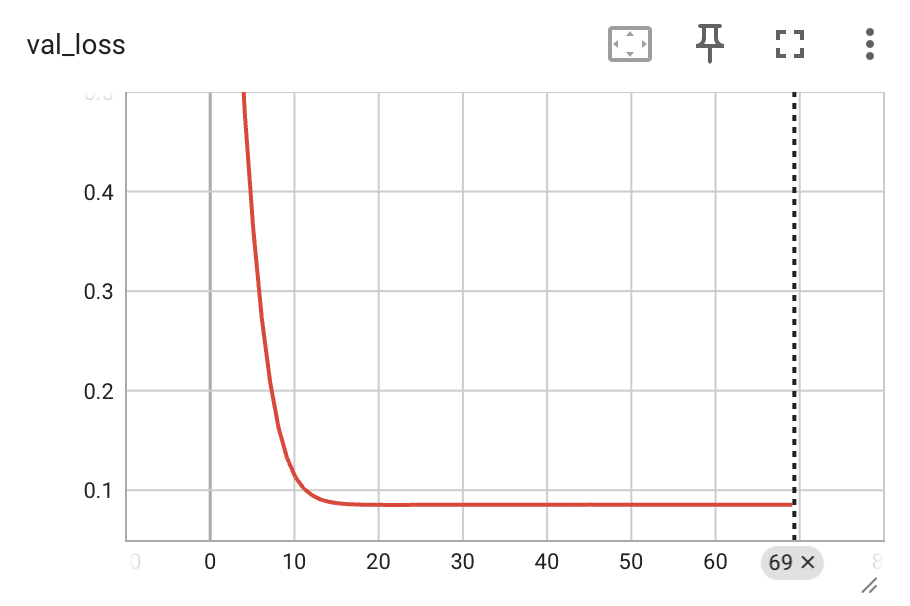
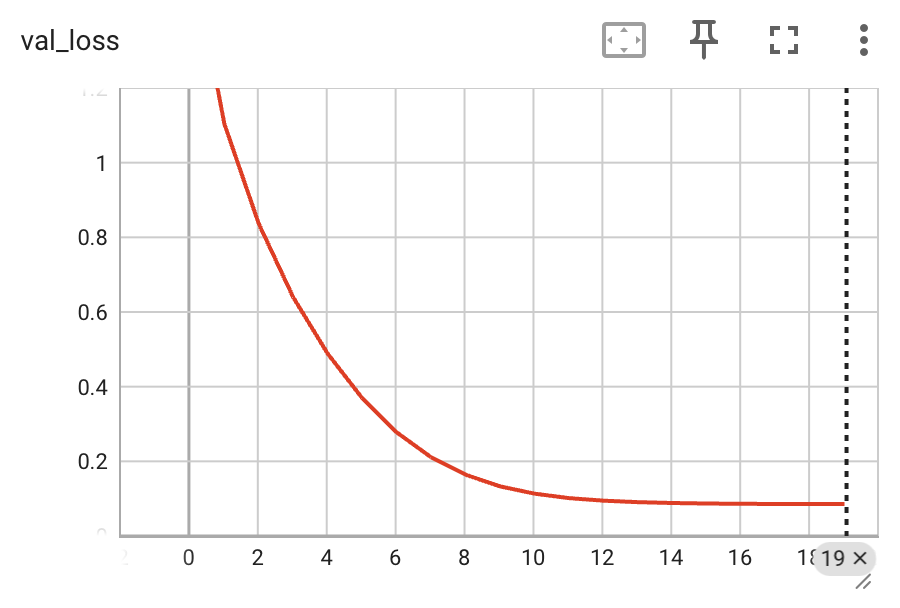
docs: updated README.md

diff --git a/src/app/services/train_service.py b/src/app/services/train_service.py
@@ -1,7 +1,9 @@
 from src.ml.config import Config
 from src.ml.train import train_pipeline
+import logging
 
 def train_model(Config, EMBEDDING_DIM, LEARNING_RATE, BATCH_SIZE, N_EPOCHS):
     if not Config.DATA_PATH.exists() or not Config.MAPPING_PATH.exists():
+        logging.error("Preprocessed file or mapping file not found")
         raise ValueError("You should preprocess your data first!")
     return train_pipeline(Config, EMBEDDING_DIM, LEARNING_RATE, BATCH_SIZE, N_EPOCHS)

diff --git a/README.md b/README.md
@@ -20,7 +20,7 @@ formulated as a regression task over explicit feedback.
 
 ## ML Approach
 - Matrix factorization with user and item embeddings (with bias terms)
-- Batch training via DataLoader (over **user-item-rating** triplets).
+- Batch training via DataLoader (over **user-item-rating** triplets)
 - Train/validation split
 - Saving model to the file + JSON metadata storage
 - Optimization via MSE loss
@@ -33,14 +33,15 @@ formulated as a regression task over explicit feedback.
 - Model outputs scores (not probabilities).
 - Inference currently uses Pandas DataFrame, which might limit performance.
 - The model uses classical matrix factorization. Currently, there are more modern recommendation models in the world (based on implicit feedback).
+- Training performance is sensitive to batch size: reducing the batch size may increase epoch duration. This is likely caused by a data loading bottleneck (loading from Pandas in each iteration).
 
 ## Results
-> **Epoch 70/70 | train_loss=0.0455 | val_loss=0.0855 | val_rmse=0.2924 | val_mae=0.2158**
+> **Epoch 20/20 | train_loss=0.0460 | val_loss=0.0854 | val_rmse=0.2922 | val_mae=0.2149**
 
 ### Metric Interpretation
 The model is trained on normalized ratings in the [0, 1] range using the transformation (rating - 1) / 4.
 
-- **MAE ≈ 0.22 (normalized)** corresponds to ≈ **0.88 rating points** on the original [1, 5] scale  
+- **MAE ≈ 0.21 (normalized)** corresponds to ≈ **0.84 rating points** on the original [1, 5] scale  
 - **RMSE ≈ 0.29 (normalized)** corresponds to ≈ **1.16 rating points** on the original scale  
 
 This means that, on average, predicted ratings deviate by less than 1 point from true user ratings.
@@ -87,3 +88,6 @@ Implemented using Pandas:
 2. Optional dataset subsampling via ```.sample()```
 3. Encode users and items using ```.factorize()```
 4. Save mappings (user - id, item - id, and reverse mappings for inference).
+
+Basic logging is implemented to track training, inference, and system events.
+The system logs key lifecycle events, request handling, and errors, which simplifies debugging and monitoring in production-like environments.
